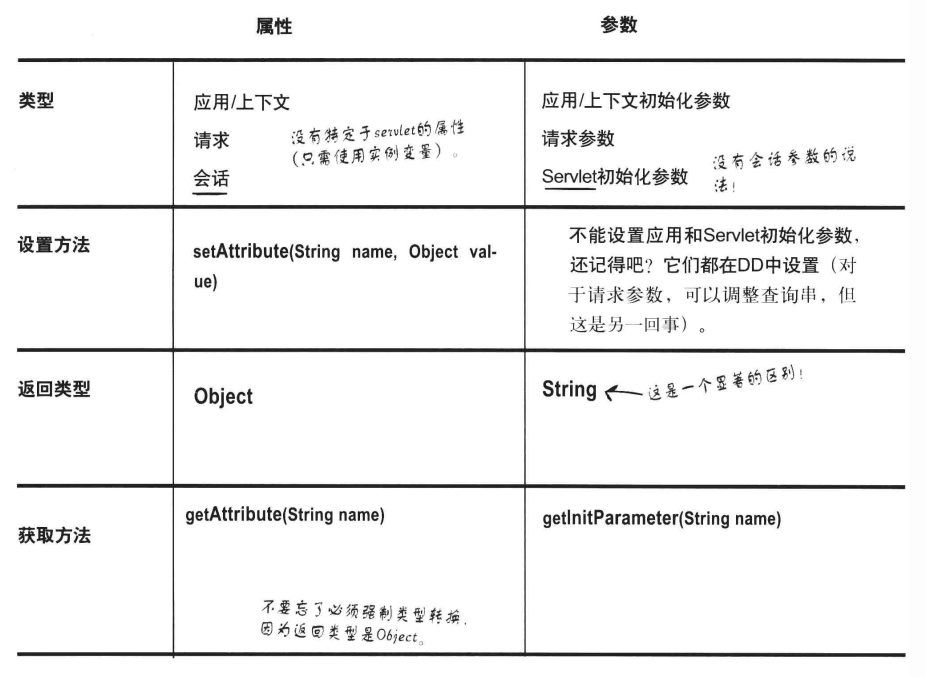
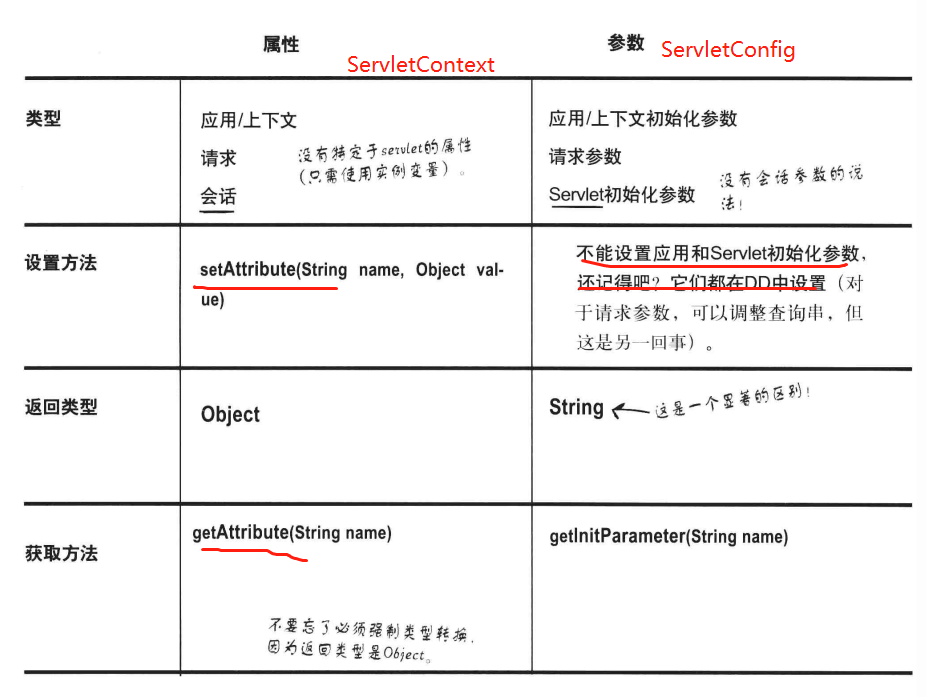
add

Changed region(s): [[0.0, 0.0, 0.9978, 0.9926], [0.0, 0.7755, 0.121, 0.8065]]

diff --git a/README.md b/README.md
@@ -347,3 +347,6 @@ test lisentener
 
 # 属性和参数区别
 ![avatar](/img/属性和参数区别.png)
+
+# 属性API
+![avatar](/img/属性API.png)
